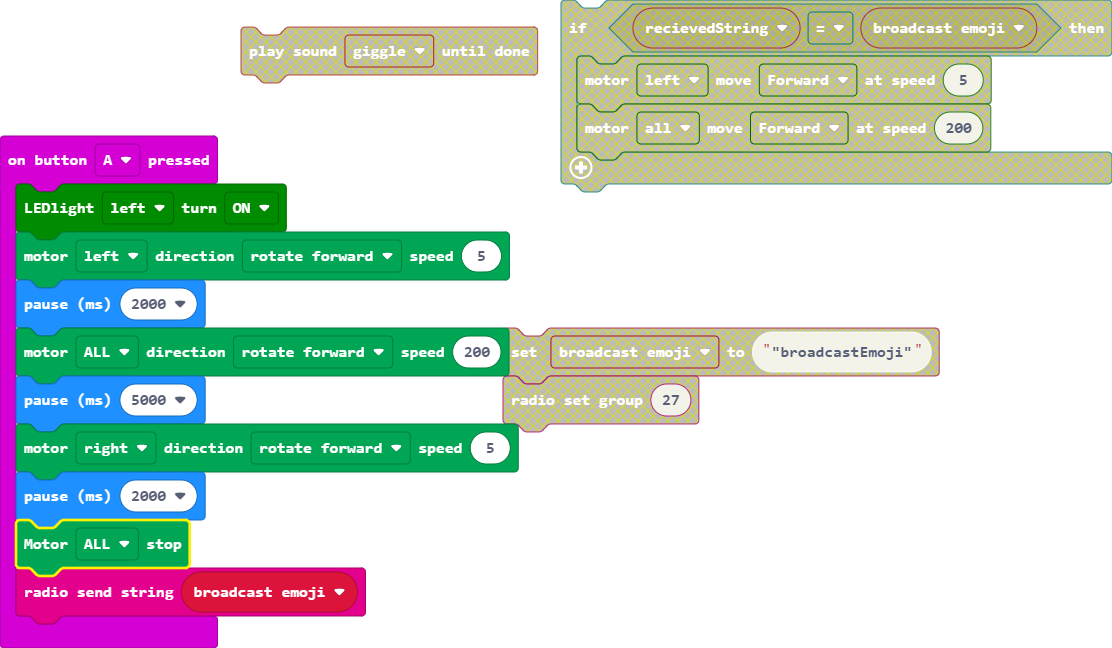
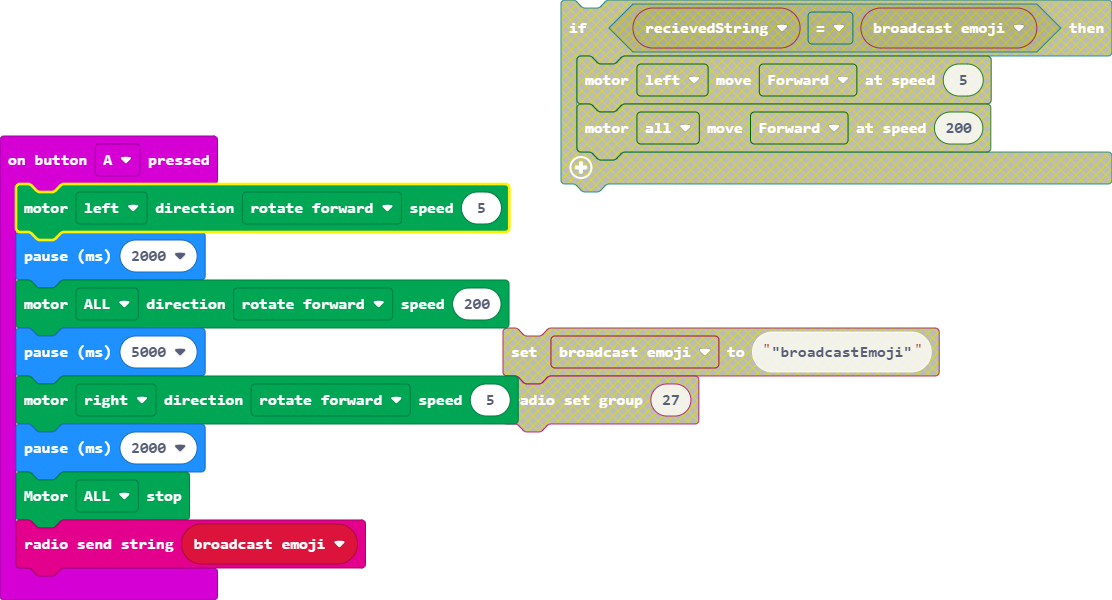
Removed LEDlight from Maqueen

diff --git a/main.ts b/main.ts
@@ -1,6 +1,5 @@
 input.onButtonPressed(Button.A, function () {
     let broadcast_emoji = 0
-    maqueen.writeLED(maqueen.LED.LEDLeft, maqueen.LEDswitch.turnOn)
     DFRobotMaqueenPlus.mototRun(Motors.M1, Dir.CW, 5)
     basic.pause(2000)
     DFRobotMaqueenPlus.mototRun(Motors.ALL, Dir.CW, 200)
